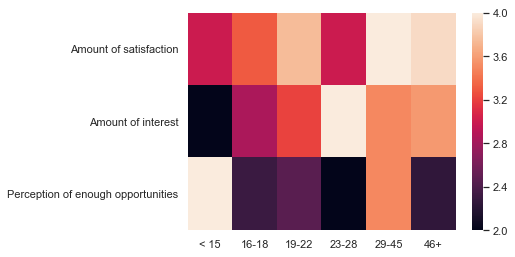
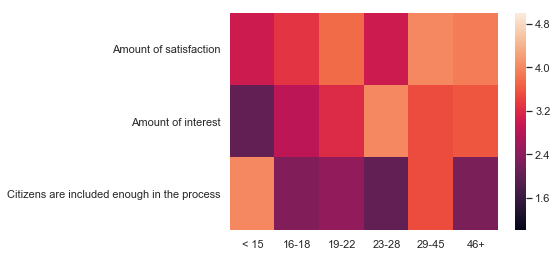
evaluation gefixt

diff --git a/content/research_iteration_4/index.md b/content/research_iteration_4/index.md
@@ -23,34 +23,21 @@ We eventually got [59 responses](#plotage) from a wide range of ages. Their answ
 {{< fig src="images/age.png" caption="The ages of all 59 participants" name="plotage" >}}
 
 
-{{< fig src="images/p2.svg" caption="Amount of satisfaction with environment, interest in urban design and planning and perceping of being offered enough tools per frequency of going outside" name="manyplots" class="medium-width">}}
-
-{{< fig src="images/p2_ages.svg" caption="Amount of satisfaction with environment, interest in urban design and planning and perceping of being offered enough tools per age group" name="manyplots" class="medium-width">}}
-
-
-{{< fig src="images/heatmapv1.png" caption="Percepting of satisfaction, interest and enough opportunities per frequency of going outside" name="plotage" class="medium-width">}}
-{{< fig src="images/heatmapv2.png" caption="Percepting of satisfaction, interest and enough opportunities per age group" name="plotage" class="medium-width">}}
-
-{{< figcontainer class="large">}}
-{{< fig src="images/heatmapv1.png" caption="Percepting of satisfaction, interest and enough opportunities per frequency of going outside" class="full_width" name="plotage">}}
-{{< fig src="images/heatmapv2.png" caption="Percepting of satisfaction, interest and enough opportunities per age group" name="plotage" >}}
-{{</ figcontainer>}}
-
-{{< figcontainer class="large">}}
-{{< fig src="images/heatmapv5.png" caption="Percepting of satisfaction, interest and enough opportunities per frequency of going outside" class="full_width" name="plotage">}}
-{{< fig src="images/heatmapv3.png" caption="Percepting of satisfaction, interest and enough opportunities per age group" name="plotage" >}}
-{{</ figcontainer>}}
-
-The middle row of the [3x3 grid plot](#manyplots) shows the majority of users are interested in participating more in the process of urban planning and design. No matter the frequency of going outside, it is generally perceived that the municipality does not offer the appropriate tools for citizens to actually do so. In many cases, people [don’t even know of methods to contact the municipality](#plotknow) about this matter. The ones who did find the opportunity to [participate in a co-design](#plotcodesign) session were often left unsatisfied as they felt they weren’t listened to appropriately: 
+The middle [bar graph](#bar) shows the majority of users are interested in participating more in the process of urban planning and design. Both heatmap show it is generally perceived that the municipality does not include citizens enough in the process and does not offer enough and appropriate tools. In many cases, people [don’t even know of methods to contact the municipality](#plotknow) about this matter. The ones who did find the opportunity to [participate in a co-design](#plotcodesign) session were often left unsatisfied as they felt they weren’t listened to appropriately: 
 
 >“I was invited by email to give input on redesigning the nearby park. I gave lots of new ideas ... nothing was done with any of my or other's input since they decided to throw in tiles only. No, I wasn't heard, even angry, and will never participate again.”
 
 {{< figcontainer class="medium" >}}
+{{< fig src="images/influence.png" caption="A graph showing how many people are interested in participating more in urban design and planning" class="full_width" name="bar">}}
+{{< fig src="images/heatmapv5.png" caption="Percepting of satisfaction, interest and enough opportunities per frequency of going outside" class="full_width" name="heatmap1">}}
+{{< fig src="images/heatmapv2.png" caption="Percepting of satisfaction, interest and enough opportunities per age group" name="heatmapv2" >}}
 {{< fig src="images/knowingways.png" caption="People knowing ways of contacting the municipality" name="plotknow" >}}
 {{< fig src="images/participationincodesignsession.png" caption="People having participated in co-design sessions" name="plotcodesign" >}}
 {{< /figcontainer >}}
 
-From the [3x3 grid plot](#manyplots) we can conclude that in general people are relatively satisfied with their environment, no matter the frequency they go outside. However, the [multiple bar graphs](#satisfactionperaspect) also show there is a big fluctuation in satisfaction among different aspects of people's environment: we need to mainly focus on implementing assets such as benches to sit down, bins against littering, playground-related objects for recreational purposes and some primitive shapes for people to create art or decoration.
+From the [left heatmap](#heatmapv1) and [right heatmap](#heatmapv2) we can conclude that in general people are relatively satisfied with their environment, no matter the frequency they go outside. A fun result was the satisfaction was the lowest, the interest to participate in the process the highest and the assessment of being included enough the least for people who go outside only a few times a week. This could be because they are not fully satisfied with their environment to go outside more and therefore want to change that, but are not offered the appropriate tools. An unexpected insights was given by the right heatmap. The least satisfaction and highest interest to participate in the process was amongst people in the age group of 23-28 years. They also thought the municipality does not include them enough. This could be because at this age one is more conscious about their environment because they get older and feel like they want to do something about it.
+
+However, the [multiple bar graphs](#satisfactionperaspect) also show there is a big fluctuation in satisfaction among different aspects of people's environment: we need to mainly focus on implementing assets such as benches to sit down, bins against littering, playground-related objects for recreational purposes and some primitive shapes for people to create art or decoration. 
 
 {{< fig src="images/allitems4.svg" caption="Amount of satisfaction per aspect of people's environment" class="full-width" name="satisfactionperaspect" >}}
 

diff --git a/content/platform_iteration_4/index.md b/content/platform_iteration_4/index.md
@@ -22,16 +22,16 @@ Whereas a mockup prototype of our platform was created in Adobe XD for the midte
 {{< fig src="images/unitybuttons.JPG" caption="The addition of the build button and profile page" name="buttons" >}}
 {{< /figcontainer >}}
 
-## Switching from Unity to Adobe XD
 
 Our focus namely shifted from realizing to actually validating our system, based on insights obtained in a meeting with Regina Bernhaupt. We discussed the main parts of both our platform and AR build system that we thought were important to realize and communicate to the public at demo day.
 For the platform, this was mainly to show its core functionality and aesthetics. Therefore focusing on a more simple realization method in AdobeXD would be a more appropriate choice to realize these goals, as visualizing the user in their own neighborhood was not a core feature and made it harder to realize.
 
+## Progress 1 December 2020
 The [very first version](#overview) was built upon the prototype made for the midterm demo day. A clearer distinction needed to be made between the different types of submissions and an overall calmer aesthetic and clearer hierarchy of on-screen items needed to be implemented. The customizable options were left out as these were not part of the platform’s core functionalities. A preview screen of builds were added for accessibility’s sake. 
 
 {{< fig src="images/platformv04.jpg" caption="All screens of the first version of the AdobeXD platform prototype (V1)" name="overview" >}}
 
-
+## Progress 2 December 2020
 The aesthetics were greatly improved in the third version. Every build page was fully colored and the saturation of colors was increased to make the app feel more alive. The voting button in the championship’s build previews were indicated with a heart as interface metaphor and the preview itself would get green once a build has been voted for.
 
 {{< figcontainer >}}
@@ -44,6 +44,7 @@ name="championshipo" >}}
 name="championshipo" >}}
 {{< /figcontainer >}}
 
+## Progress 3 December 2020
 The fourth version received the first implementation of a cluster and got rid of the option to submit a comment as it would deviate too much from the main focus of our project: the AR building system. The pages of individual pages were transformed back to mainly white, mainly because the top part was now an image, instead of an indication of the type of submission.
 
 {{< figcontainer >}}
@@ -54,6 +55,7 @@ The fourth version received the first implementation of a cluster and got rid of
 name="championshipo" >}}
 {{< /figcontainer >}}
 
+## Progress 8 till 10 December 2020
 Personal profiles, as well as an achievement system was added in the fifth iteration. The seventh iteration improved the boring aesthetic of the previous achievement visualization. This iteration also added medals to the at the time three best ideas in the championship.
 
 {{< figcontainer >}}
@@ -63,8 +65,7 @@ Personal profiles, as well as an achievement system was added in the fifth itera
 {{< fig src="images/version7_2.png" caption="An overview of championship submissions with medals (V7)" >}}
 {{< /figcontainer >}}
 
-## The final version of the platform
-
+## Progress 16 December 2020 - The final version of the platform
 Eventually during iteration eight till ten many astonishing improvements were made to make the app convey the actual feeling of being an app. The homescreen now had a real image of the user’s surroundings, as well as a profile page button. The build submissions contained actual building footage made with our own app. The championship had its own button for submissions for this specific tournament. For better hierarchy, the buttons on submission pages were decreased in size. To make the buttons pop, as well as the title of the build, the white background was replaced with an even more highly saturated colors.
 
 {{< figcontainer >}}
